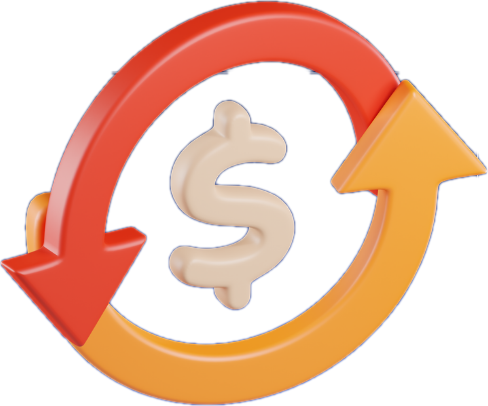
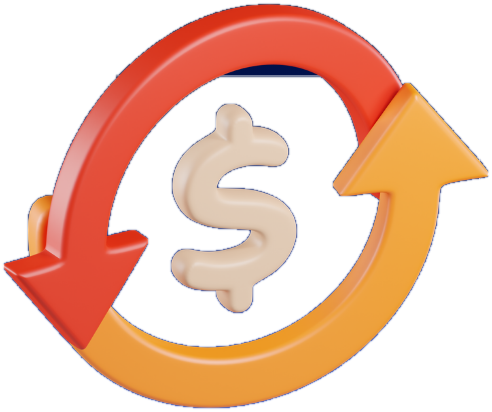
M7: cut the scroll hint, re-extract the artwork, draw YouTube as its mark
The hero's SCROLL indicator (mine, in no comp) is gone with its rail
keyframes. scripts/extract-art.py re-cuts the five 3D assets from the comps
by region-growing the backdrop from the crop border (plus refused-if-not-
backdrop interior seeds), never by deleting pixels that resemble it; the
calendar's lower body is whole again. YouTube renders as Simple Icons' full
mark in red - a rounded rectangle wider than tall with the triangle knocked
out - vertically centred in its slot. Comparisons in docs/site/review/M7/art.

diff --git a/styles/globals.css b/styles/globals.css
@@ -615,50 +615,6 @@ button {
   }
 }
 
-.hero__scroll {
-  position: absolute;
-  left: 50%;
-  bottom: clamp(1.25rem, 3vh, 2.25rem);
-  translate: -50% 0;
-  display: grid;
-  justify-items: center;
-  gap: 0.5rem;
-  font-size: 0.72rem;
-  letter-spacing: 0.18em;
-  text-transform: uppercase;
-  color: rgba(255, 255, 255, 0.5);
-}
-
-.hero__scroll-rail {
-  width: 1px;
-  height: 46px;
-  background: linear-gradient(to bottom, rgba(255, 255, 255, 0.45), rgba(255, 255, 255, 0));
-  overflow: hidden;
-}
-
-.hero__scroll-rail::after {
-  content: "";
-  display: block;
-  width: 100%;
-  height: 16px;
-  background: #fff;
-  animation: rail 2.4s var(--ease) infinite;
-}
-
-@keyframes rail {
-  0% {
-    transform: translateY(-18px);
-    opacity: 0;
-  }
-  35% {
-    opacity: 1;
-  }
-  100% {
-    transform: translateY(46px);
-    opacity: 0;
-  }
-}
-
 /* ======================================================================
    Products
    ====================================================================== */
@@ -1047,10 +1003,20 @@ button {
   height: 74%;
 }
 
-/* The play triangle alone: the tile is already the YouTube rectangle. */
+/* YouTube is not a square tile: the mark itself, red, fills the slot's
+   width and sits centred - shorter than its neighbours, as drawn in comp 9. */
+.social--youtube,
+.social--youtube:hover,
+.social--youtube.social--placeholder:hover {
+  background: none;
+  box-shadow: none;
+  color: var(--social-bg);
+}
+
 .social--youtube svg {
-  width: 70%;
-  height: 70%;
+  width: 100%;
+  height: 100%;
+  filter: drop-shadow(0 16px 20px rgba(0, 0, 0, 0.45));
 }
 
 .social:hover {
@@ -1561,10 +1527,6 @@ button {
 
   .hero__title {
     max-width: none;
-  }
-
-  .hero__scroll {
-    display: none;
   }
 
   .statement {

diff --git a/components/icons.tsx b/components/icons.tsx
@@ -141,17 +141,12 @@ export const socialIcons: Record<string, (p: IconProps) => ReactElement> = {
       <path d="M17.53 3h3.04l-6.64 7.59L21.75 21h-5.96l-4.67-6.1L5.77 21H2.72l7.1-8.12L2.25 3h6.11l4.22 5.58L17.53 3Zm-1.07 16.17h1.68L7.6 4.74H5.8l10.66 14.43Z" />
     </svg>
   ),
-  /* YouTube: the mark *is* the red rounded rectangle with the play
-     triangle, and the tile already is that rectangle, so the glyph is the
-     triangle alone (NEXT-008 B). Its geometry is the triangle from Simple
-     Icons' youtube path (CC0, simple-icons 16.31), scaled to 14 units tall
-     and kept at the mark's own slightly right-of-centre position. */
+  /* YouTube: the mark is the red rounded rectangle with the play triangle
+     knocked out of it, wider than tall - so it is drawn whole, in red, in
+     place of a tile (NEXT-012 3). Path from Simple Icons (CC0, 16.31). */
   youtube: ({ className }) => (
     <svg className={className} viewBox="0 0 24 24" fill="currentColor" aria-hidden="true">
-      <path
-        transform="translate(12.4 12) scale(1.962) translate(-12.6815 -12)"
-        d="M9.545 15.568V8.432L15.818 12l-6.273 3.568z"
-      />
+      <path d="M23.498 6.186a3.016 3.016 0 0 0-2.122-2.136C19.505 3.545 12 3.545 12 3.545s-7.505 0-9.377.505A3.017 3.017 0 0 0 .502 6.186C0 8.07 0 12 0 12s0 3.93.502 5.814a3.016 3.016 0 0 0 2.122 2.136c1.871.505 9.376.505 9.376.505s7.505 0 9.377-.505a3.015 3.015 0 0 0 2.122-2.136C24 15.93 24 12 24 12s0-3.93-.502-5.814zM9.545 15.568V8.432L15.818 12l-6.273 3.568z" />
     </svg>
   ),
   linkedin: ({ className }) => (

diff --git a/components/Hero.tsx b/components/Hero.tsx
@@ -26,11 +26,6 @@ export default function Hero() {
           </Link>
         </div>
       </div>
-
-      <div className="hero__scroll" aria-hidden="true">
-        <span className="hero__scroll-rail" />
-        <span>Scroll</span>
-      </div>
     </section>
   );
 }

diff --git a/scripts/extract-art.py b/scripts/extract-art.py
@@ -1,0 +1,226 @@
+"""
+Cut the 3D artwork out of the design comps into transparent PNGs.
+
+    python scripts/extract-art.py            # writes public/assets/art-*.png
+    python scripts/extract-art.py --check    # also writes docs/site/review/<dir>/art-*.png comparisons
+
+How it decides what is background — and, deliberately, what it does not do:
+
+* The background is found by REGION GROWING from seeds on the crop's border:
+  a pixel joins the background only if it is within a small step of a
+  background neighbour. Smooth gradients and glass fills are walked across;
+  a real edge (subject against backdrop) is a step too large to cross. No
+  pixel is removed for merely *resembling* the background — a global "close
+  to a fitted background model" pass is what ate the calendar's lower body
+  the first time (NEXT-012).
+* The comps put the art over glass cards, whose 1px borders would stop the
+  growth. Seeds on both sides of a border reach both regions; a small CLOSING
+  of the background mask (radius 3px) swallows the thin border line where it
+  runs outside the subject. Nothing thicker than 6px can be lost to it.
+* The subject is the largest connected non-background component, plus any
+  other component above a size floor that lies inside the asset's box (so
+  card text under the art is dropped, but a detached shadow or ring is kept).
+* Alpha is the mask with a 1px feather; edge pixels keep the blend they had.
+
+Needs Pillow only. Regions and seeds are listed in ART below; if a comp is
+re-exported, re-check the boxes.
+"""
+from __future__ import annotations
+
+import sys
+from collections import deque
+from pathlib import Path
+
+from PIL import Image, ImageFilter
+
+ROOT = Path(__file__).resolve().parent.parent
+SCREENS = ROOT / "docs/site/screens"
+OUT = ROOT / "public/assets"
+
+# name -> (comp, crop box, per-step tolerance, min component area, extra seeds)
+# The crop border must be background (gradient or card glass) on every side.
+# Extra seeds are comp-space points known to be background that the border
+# cannot reach - backdrop enclosed by the subject, like the inside of the
+# sync arrows. They are flood-filled by the same rule, never guessed.
+ART = {
+    "art-budget": ("07-journal-cards/ui-1.png", (100, 50, 650, 470), 7, 300, ()),
+    "art-sync": ("07-journal-cards/ui-1.png", (720, 50, 1280, 490), 7, 300, ((890, 280), (1080, 300), (1200, 180), (1150, 120))),
+    "art-calendar": ("07-journal-cards/ui-1.png", (1300, 40, 1860, 505), 7, 300, ()),
+    "art-tape": ("08-about/ui-1.png", (1030, 265, 1900, 700), 7, 300, ()),
+    "art-envelope": ("10-contact-and-footer/ui-1.png", (430, 320, 630, 490), 7, 200, ()),
+}
+
+STEP_DIRS = ((1, 0), (-1, 0), (0, 1), (0, -1))
+
+
+def grow_background(img: Image.Image, tol: int, seeds=()) -> list[bool]:
+    """Flood from every border pixel (and any extra seeds), stepping only across small colour changes."""
+    w, h = img.size
+    px = img.load()
+    seen = [False] * (w * h)
+    q: deque[tuple[int, int]] = deque()
+    for x, y in seeds:
+        seen[y * w + x] = True
+        q.append((x, y))
+    for x in range(w):
+        for y in (0, h - 1):
+            if not seen[y * w + x]:
+                seen[y * w + x] = True
+                q.append((x, y))
+    for y in range(h):
+        for x in (0, w - 1):
+            if not seen[y * w + x]:
+                seen[y * w + x] = True
+                q.append((x, y))
+    while q:
+        x, y = q.popleft()
+        r, g, b = px[x, y]
+        for dx, dy in STEP_DIRS:
+            nx, ny = x + dx, y + dy
+            if 0 <= nx < w and 0 <= ny < h and not seen[ny * w + nx]:
+                nr, ng, nb = px[nx, ny]
+                if abs(nr - r) <= tol and abs(ng - g) <= tol and abs(nb - b) <= tol:
+                    seen[ny * w + nx] = True
+                    q.append((nx, ny))
+    return seen
+
+
+def components(mask: Image.Image) -> list[tuple[int, tuple[int, int, int, int], set[int]]]:
+    """Connected components of the white pixels: (area, bbox, pixel set)."""
+    w, h = mask.size
+    px = mask.load()
+    labelled = [False] * (w * h)
+    out = []
+    for sy in range(h):
+        for sx in range(w):
+            if px[sx, sy] and not labelled[sy * w + sx]:
+                labelled[sy * w + sx] = True
+                q = deque([(sx, sy)])
+                pixels = set()
+                x0 = x1 = sx
+                y0 = y1 = sy
+                while q:
+                    x, y = q.popleft()
+                    pixels.add(y * w + x)
+                    x0, x1, y0, y1 = min(x0, x), max(x1, x), min(y0, y), max(y1, y)
+                    for dx, dy in STEP_DIRS:
+                        nx, ny = x + dx, y + dy
+                        if 0 <= nx < w and 0 <= ny < h and px[nx, ny] and not labelled[ny * w + nx]:
+                            labelled[ny * w + nx] = True
+                            q.append((nx, ny))
+                out.append((len(pixels), (x0, y0, x1 + 1, y1 + 1), pixels))
+    out.sort(key=lambda c: -c[0])
+    return out
+
+
+def extract(name: str, comp: str, box, tol: int, min_area: int, seeds=()) -> tuple[Image.Image, Image.Image, dict]:
+    src = Image.open(SCREENS / comp).convert("RGB").crop(box)
+    w, h = src.size
+    # Border flood first; an extra seed is only accepted if its colour is in the
+    # family of what the border reached, so a seed that lands on the subject
+    # (one did, on the orange arrow) is refused rather than flooding it.
+    bg = grow_background(src, tol)
+    px = src.load()
+    n = sum(bg)
+    mean = [sum(px[i % w, i // w][c] for i in range(w * h) if bg[i]) // max(n, 1) for c in range(3)]
+    accepted = []
+    for x, y in ((x - box[0], y - box[1]) for x, y in seeds):
+        colour = px[x, y]
+        if all(abs(colour[c] - mean[c]) <= 40 for c in range(3)):
+            accepted.append((x, y))
+        else:
+            print(f"  {name}: seed at comp {(x + box[0], y + box[1])} is {colour}, not backdrop (mean {tuple(mean)}) - refused")
+    if accepted:
+        bg = grow_background(src, tol, accepted)
+
+    bg_mask = Image.new("L", (w, h), 0)
+    bg_mask.putdata([255 if b else 0 for b in bg])
+    # closing: swallow the card's border lines (thin) without touching the subject
+    bg_mask = bg_mask.filter(ImageFilter.MaxFilter(7)).filter(ImageFilter.MinFilter(7))
+
+    subject = bg_mask.point(lambda v: 255 - v)
+    comps = components(subject)
+    main = comps[0]
+    keep = [main]
+    mx0, my0, mx1, my1 = main[1]
+    for c in comps[1:]:
+        area, (x0, y0, x1, y1), _ = c
+        inside = x0 >= mx0 - 8 and y0 >= my0 - 8 and x1 <= mx1 + 8 and y1 <= my1 + 8
+        if area >= min_area and inside:
+            keep.append(c)
+    kept = Image.new("L", (w, h), 0)
+    data = [0] * (w * h)
+    for _, _, pixels in keep:
+        for i in pixels:
+            data[i] = 255
+    kept.putdata(data)
+
+    # 1px feather so the edge is not a staircase
+    alpha = kept.filter(ImageFilter.GaussianBlur(0.7))
+    rgba = src.copy().convert("RGBA")
+    rgba.putalpha(alpha)
+    bbox = alpha.getbbox()
+    pad = 2
+    bbox = (max(0, bbox[0] - pad), max(0, bbox[1] - pad), min(w, bbox[2] + pad), min(h, bbox[3] + pad))
+    info = {
+        "crop": box,
+        "bbox_in_comp": (box[0] + bbox[0], box[1] + bbox[1], box[0] + bbox[2], box[1] + bbox[3]),
+        "size": (bbox[2] - bbox[0], bbox[3] - bbox[1]),
+        "components_kept": len(keep),
+        "components_dropped": len(comps) - len(keep),
+        "main_area": main[0],
+    }
+    return rgba.crop(bbox), src.crop(bbox), info
+
+
+def comparison(name: str, comp_crop: Image.Image, asset: Image.Image, out_dir: Path) -> None:
+    """Comp region | asset on the comp's own mean background | asset on the old checkerboard."""
+    w, h = asset.size
+    # the comp's backdrop colour, averaged over the pixels the cut-out left behind
+    a = asset.getchannel("A").load()
+    src = comp_crop.load()
+    acc = [0, 0, 0]
+    n = 0
+    for y in range(h):
+        for x in range(w):
+            if a[x, y] == 0:
+                r, g, b = src[x, y]
+                acc[0] += r
+                acc[1] += g
+                acc[2] += b
+                n += 1
+    mean = tuple(v // max(n, 1) for v in acc)
+    flat = Image.new("RGBA", (w, h), mean + (255,))
+    flat.alpha_composite(asset)
+    checker = Image.new("RGBA", (w, h), (255, 255, 255, 255))
+    d = checker.load()
+    for y in range(h):
+        for x in range(w):
+            if (x // 12 + y // 12) % 2:
+                d[x, y] = (200, 200, 200, 255)
+    checker.alpha_composite(asset)
+    gap = 12
+    sheet = Image.new("RGB", (w * 3 + gap * 2, h), (17, 17, 17))
+    sheet.paste(comp_crop, (0, 0))
+    sheet.paste(flat.convert("RGB"), (w + gap, 0))
+    sheet.paste(checker.convert("RGB"), (2 * (w + gap), 0))
+    sheet.save(out_dir / f"{name}.png")
+
+
+def main() -> None:
+    check = "--check" in sys.argv
+    review = None
+    if check:
+        review = ROOT / "docs/site/review" / (sys.argv[sys.argv.index("--check") + 1] if len(sys.argv) > sys.argv.index("--check") + 1 else "art")
+        review.mkdir(parents=True, exist_ok=True)
+    for name, (comp, box, tol, min_area, seeds) in ART.items():
+        asset, comp_crop, info = extract(name, comp, box, tol, min_area, seeds)
+        asset.save(OUT / f"{name}.png", optimize=True)
+        b = info["bbox_in_comp"]
+        print(f"{name}.png  {info['size'][0]}x{info['size'][1]}  comp {b[0]},{b[1]}-{b[2]},{b[3]}  kept {info['components_kept']} component(s), dropped {info['components_dropped']}, main {info['main_area']}px")
+        if review:
+            comparison(name, comp_crop, asset, review)
+
+
+if __name__ == "__main__":
+    main()
